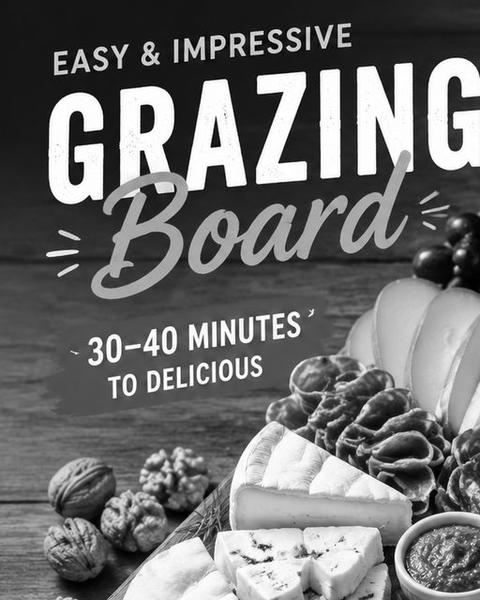
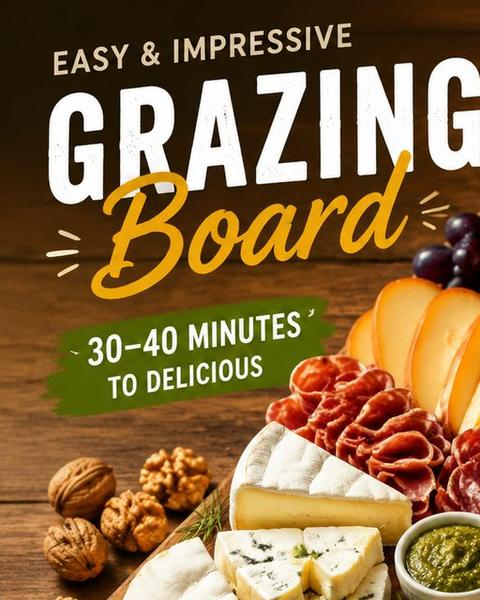
Keep the News & Interesting Things covers in colour
make-covers.py greyscaled every card. That is free for the character stories —
their comics are drawn in greyscale, so the conversion changes nothing and the
shelves read as one consistent set — but the news artwork is colour, and
draining it threw away the one visual cue that the News & Interesting Things
section is a different kind of content.

Greyscale is now per story rather than global, off for the two news covers.
Measured on the output rather than assumed: mean per-pixel channel spread is
68 and 77 for the news covers against 0.0 for all four character covers.

Nothing in List.tsx filters the image, so what the JPEG carries is what shows —
the dark overlay on the card is a scrim behind the title, not a desaturation.

diff --git a/scripts/make-covers.py b/scripts/make-covers.py
@@ -23,15 +23,20 @@ import sys
 
 from PIL import Image
 
-# (output slug, comic folder under public/assets, 1-based page to crop from)
+# (output slug, comic folder under public/assets, 1-based page, greyscale?)
+#
+# The character stories' comics are drawn in greyscale, so converting costs
+# them nothing and keeps the cards a consistent set. The News & Interesting
+# Things artwork is colour and stays colour — that section is meant to read as
+# different from the story shelves, and draining it would throw that away.
 JOBS = [
-    ("leo", "leo", 1),
+    ("leo", "leo", 1, True),
     # Was cropped from leo page 9 while this story had no artwork of its own.
-    ("leo-additional", "leo-additional", 1),
-    ("maya", "maya", 1),
-    ("daniel", "daniel", 1),
-    ("news-roland-garros", "news-roland-garros", 1),
-    ("news-grazing-board", "news-grazing-board", 1),
+    ("leo-additional", "leo-additional", 1, True),
+    ("maya", "maya", 1, True),
+    ("daniel", "daniel", 1, True),
+    ("news-roland-garros", "news-roland-garros", 1, False),
+    ("news-grazing-board", "news-grazing-board", 1, False),
 ]
 
 SIZE = (480, 600)
@@ -52,14 +57,14 @@ def main():
 
     os.makedirs(OUT_DIR, exist_ok=True)
 
-    for slug, character, page in JOBS:
+    for slug, character, page, greyscale in JOBS:
         pages = comic_pages(character)
         if len(pages) < page:
             print(f"skip {slug}: {character} has no page {page}")
             continue
 
         source = pages[page - 1]
-        art = Image.open(source).convert("L")
+        art = Image.open(source).convert("L" if greyscale else "RGB")
 
         # The crop is derived from the page rather than hardcoded, because the
         # news artwork is square (1024x1024, 1254x1254) while the character
@@ -75,7 +80,8 @@ def main():
         cover.save(out_path, "JPEG", quality=QUALITY, optimize=True, progressive=True)
 
         kb = os.path.getsize(out_path) // 1024
-        print(f"{slug:16} <- {os.path.basename(source):45} {kb:3} KB")
+        tone = "greyscale" if greyscale else "colour"
+        print(f"{slug:20} <- {os.path.basename(source):40} {kb:3} KB  {tone}")
 
 
 if __name__ == "__main__":
